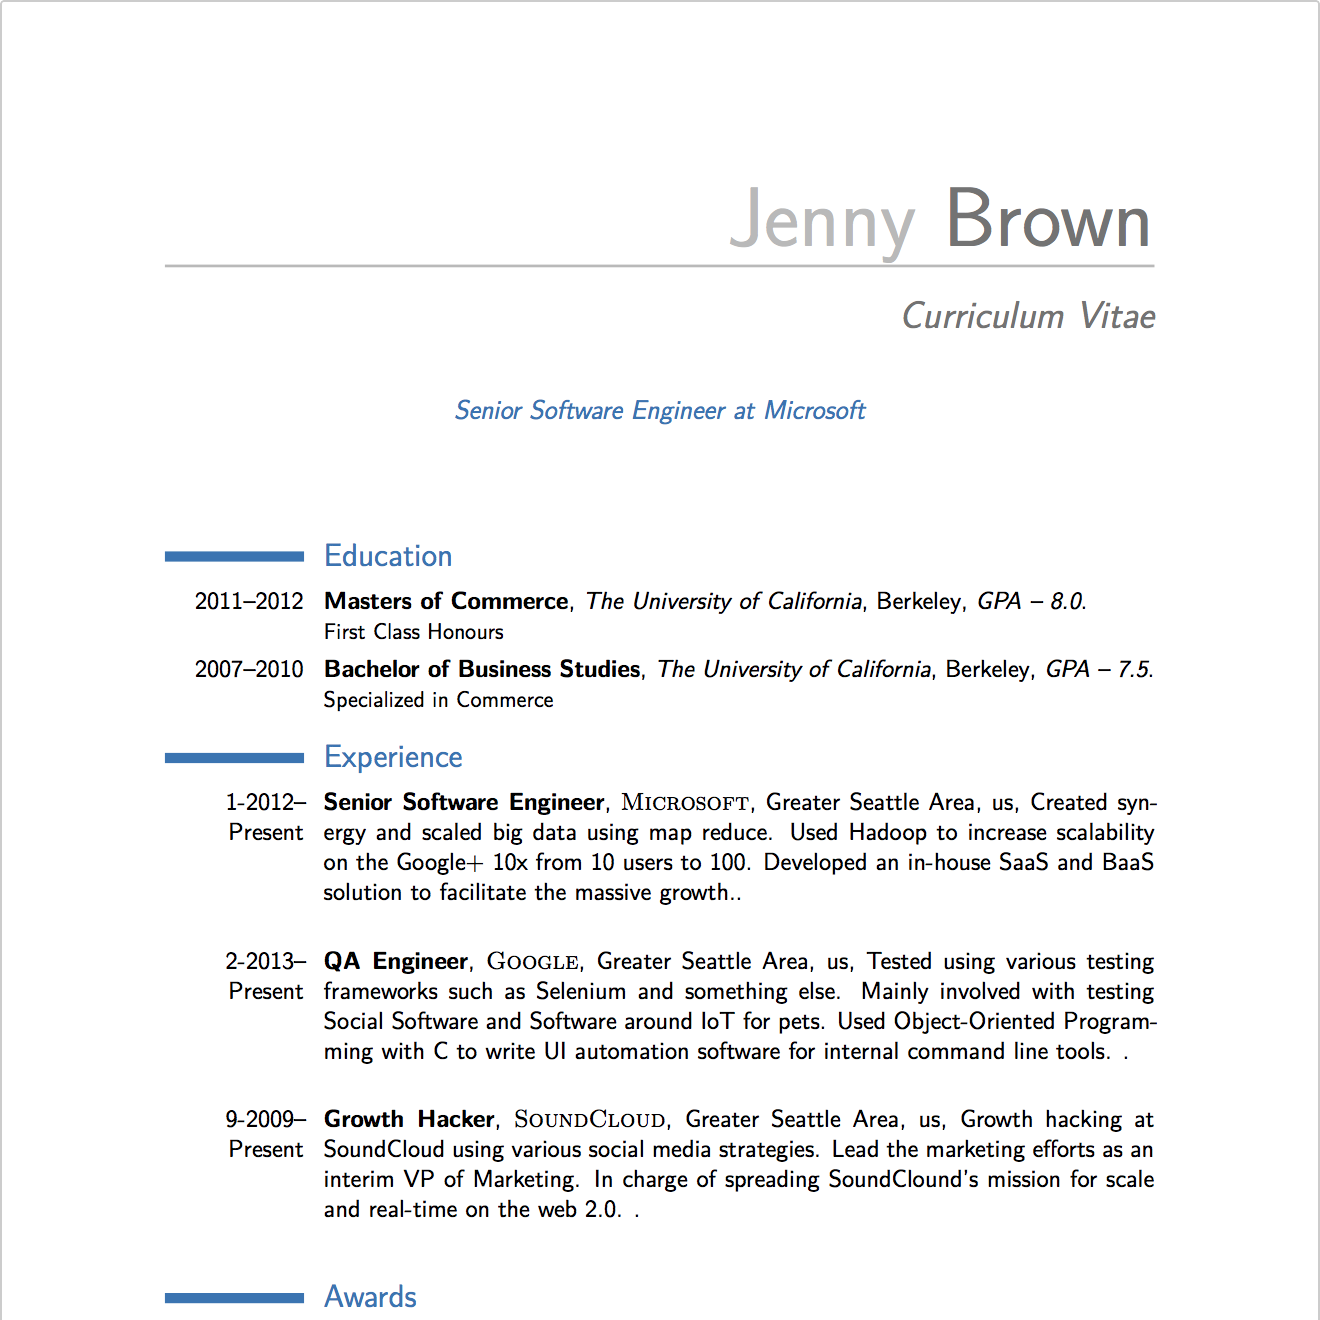
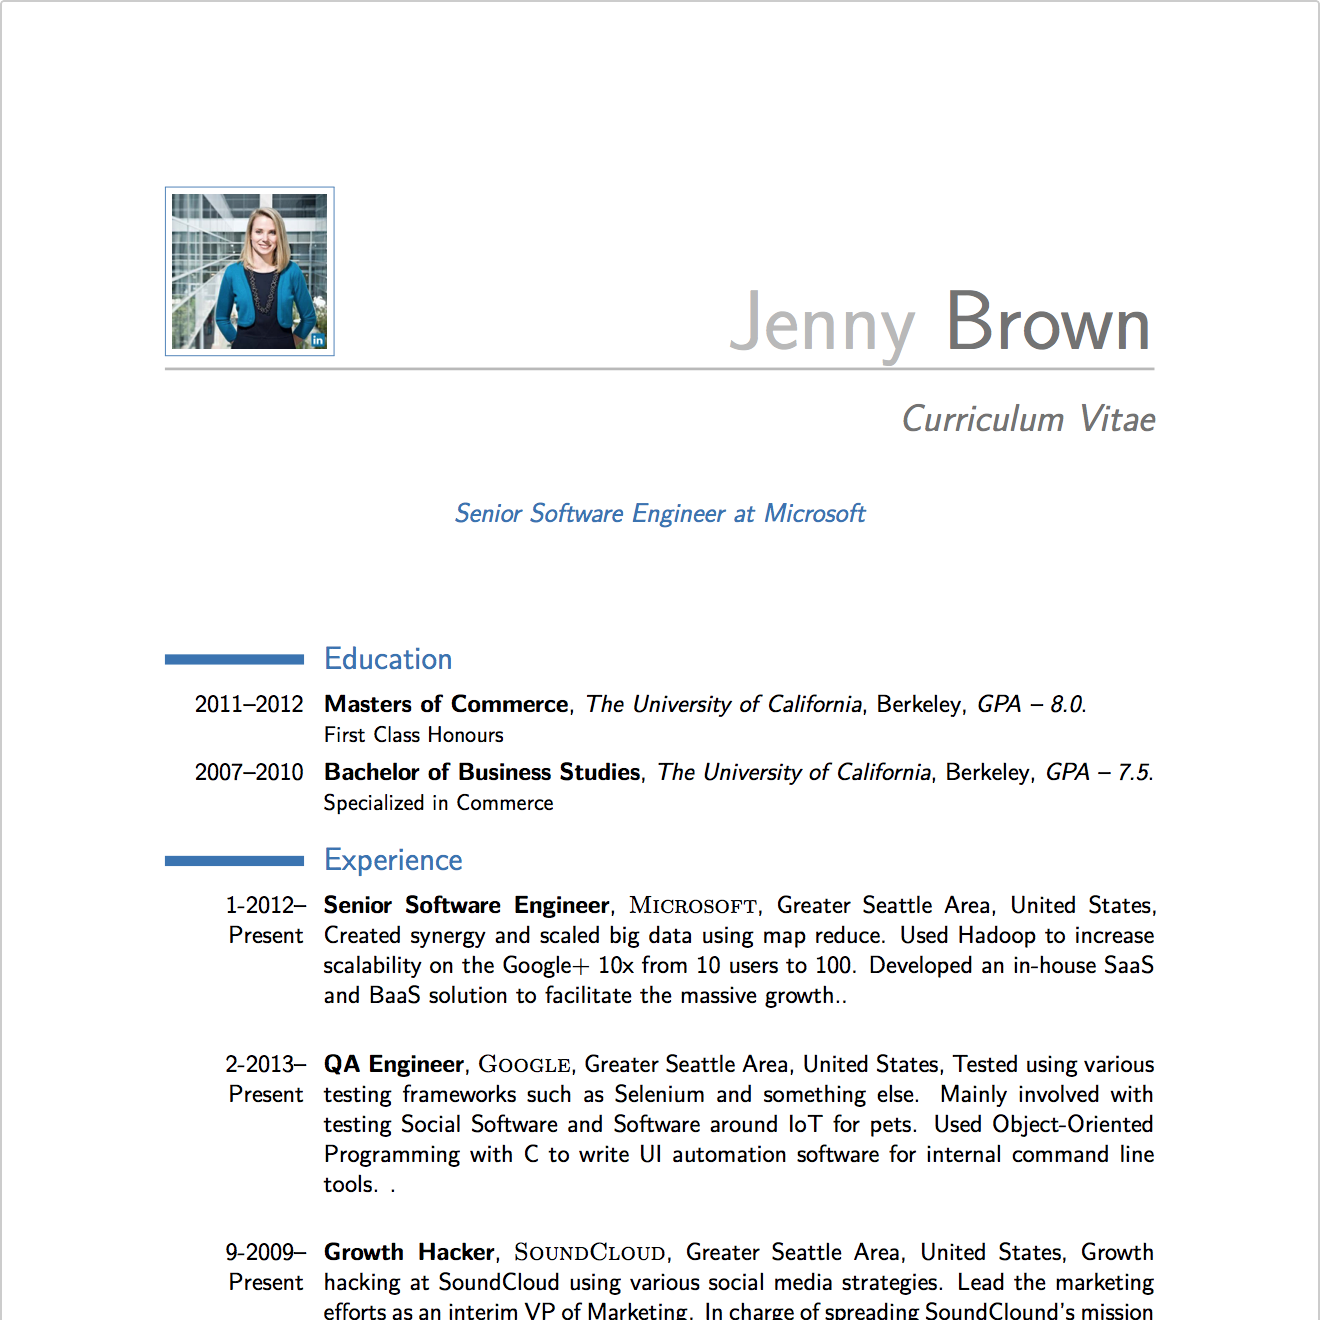
CV EU image

diff --git a/flask/texsavvy_EU.tex b/flask/texsavvy_EU.tex
@@ -52,7 +52,7 @@
 \fax{(000) 111 1113}
 \email{\Dmail}
 \homepage{\Dlinkedin}{LinkedIn} % The first argument is the url for the clickable link, the second argument is the url displayed in the template - this allows special characters to be displayed such as the tilde in this example
-%\photo[70pt][0.4pt]{\DpictureUrl} % The first bracket is the picture height, the second is the thickness of the frame around the picture (0pt for no frame)
+\photo[70pt][0.4pt]{image.jpg} % The first bracket is the picture height, the second is the thickness of the frame around the picture (0pt for no frame)
 \quote{\Dtagline}
 
 %----------------------------------------------------------------------------------------

diff --git a/flask/runLatex.py b/flask/runLatex.py
@@ -1,5 +1,6 @@
 from subprocess import call
 from iso3166 import countries
+import urllib
 
 def personalinfoFile(data):
     target = open('personalinfo.tex', 'w')
@@ -8,6 +9,8 @@ def personalinfoFile(data):
     dict['Dtagline'] = data['headline']
     dict['Dmail'] = data['emailAddress']
     dict['DpictureUrl'] = data['pictureUrls']['values'][0]
+    urllib.urlretrieve(dict['DpictureUrl'], "image.jpg")
+    
     dict['Dlinkedin'] = data['publicProfileUrl']
     dict['DpositionOnetitle'] = data['positions']['values'][0]['title']
     dict['DpositionOneSummary'] = data['positions']['values'][0]['summary']

diff --git a/flask/texsavvy_2.tex b/flask/texsavvy_2.tex
@@ -41,8 +41,6 @@
 \hspace{3cm} \= \hspace{4cm} \= \kill % Spacing within the block
 {\bf Address} \\ % Address line 1
 \> \Dcity , \Dcountry \\ % Address line 2
-{\bf Date of Birth} \> 7$^{th}$ September 1979 \\ % Date of birth 
-{\bf Nationality} \> British % Nationality
 \end{tabbing}}
 \hfill % Horizontal space between the two blocks
 \parbox{0.5\textwidth}{ % Second block
